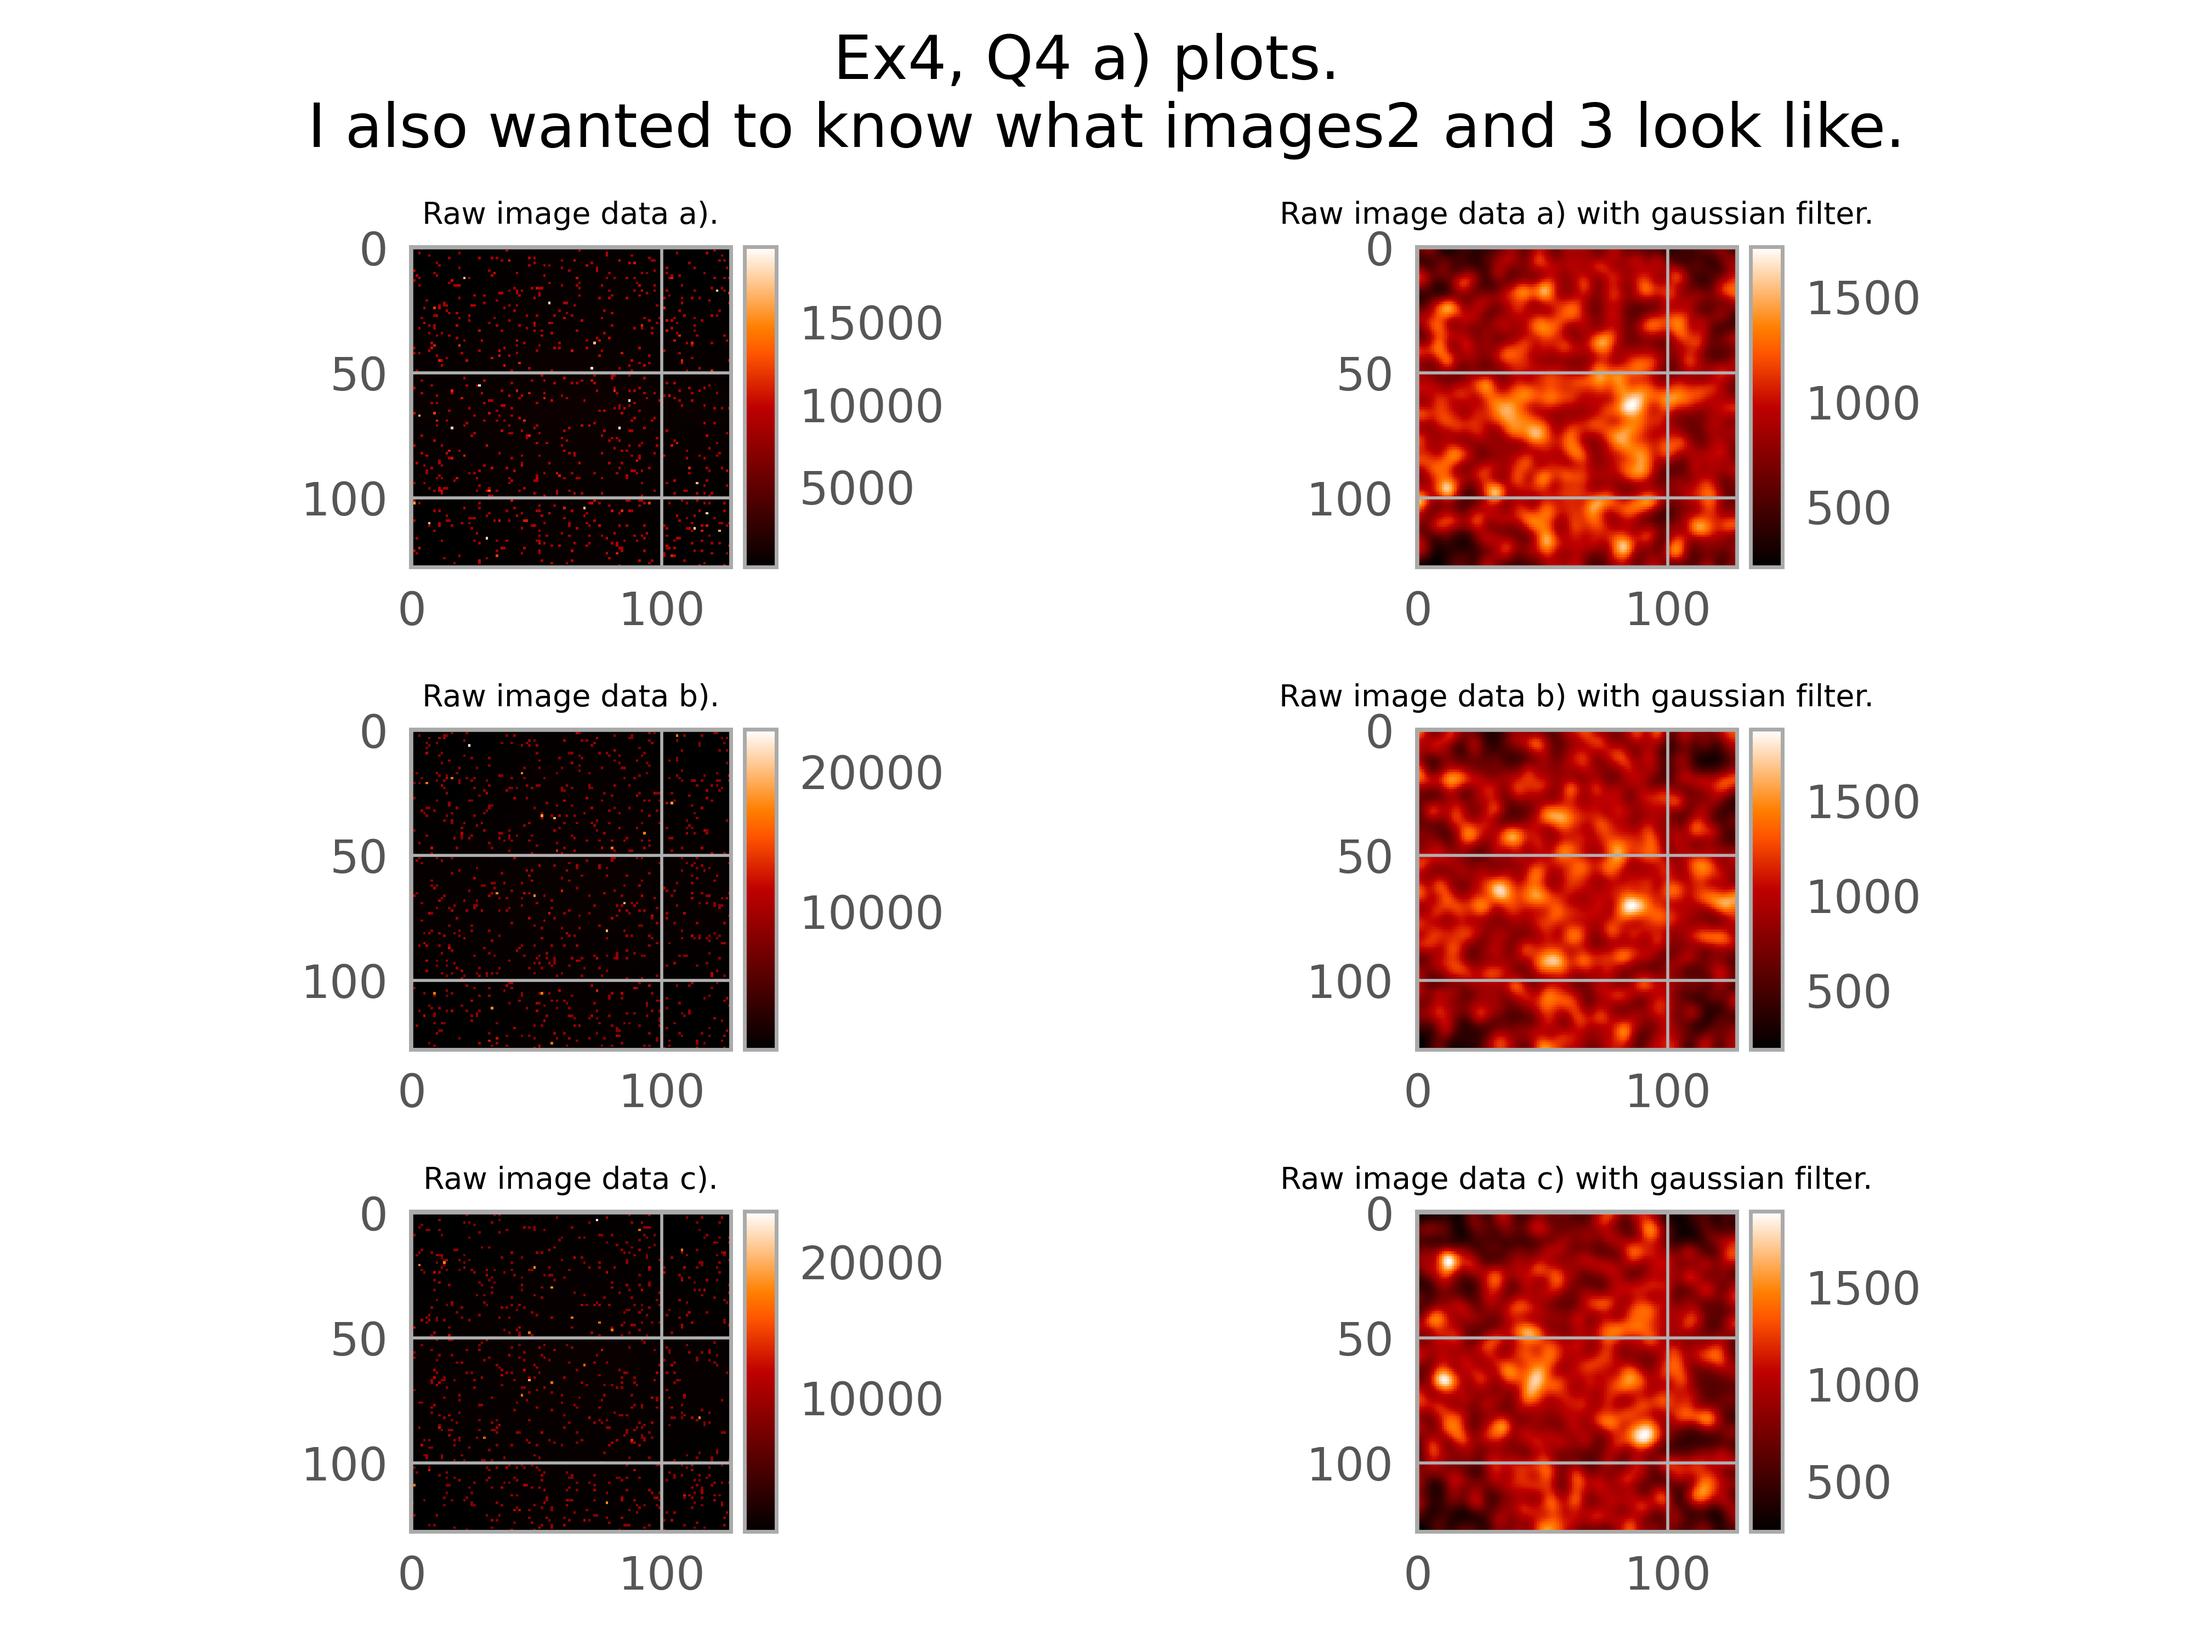
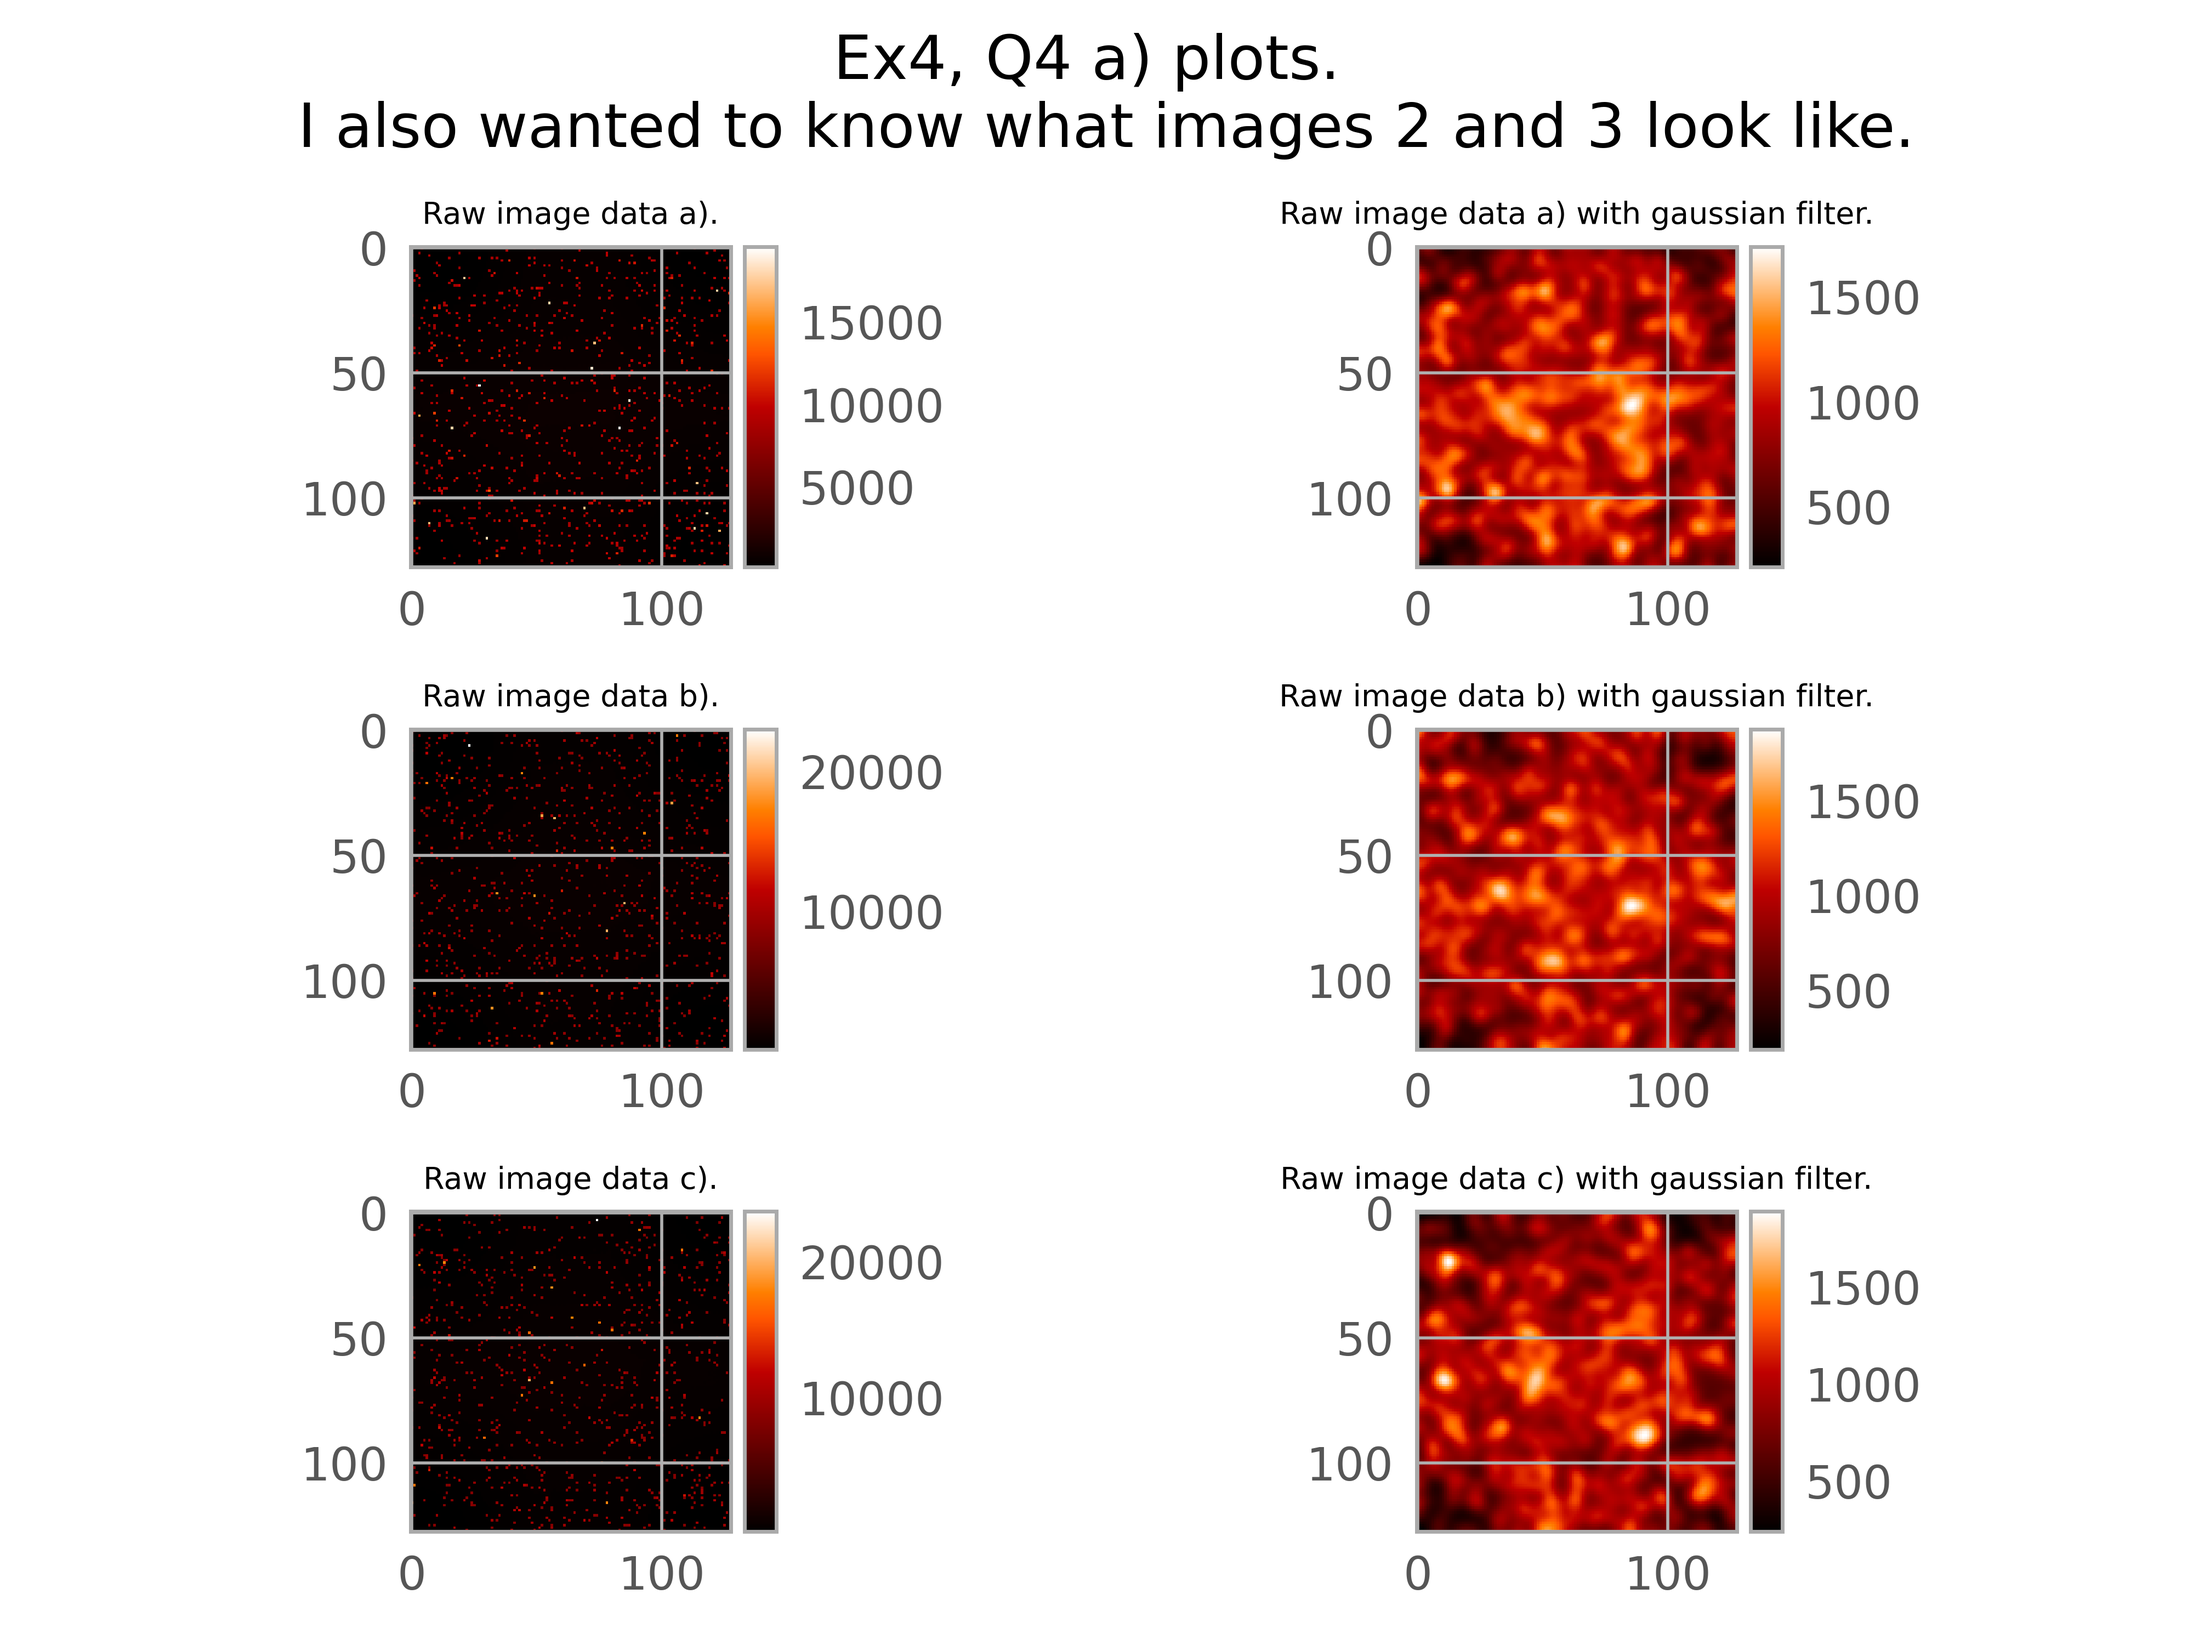
update ex4

Changed region(s): [[0.125, 0.062, 0.875, 0.093]]

diff --git a/ex4/welzel_ex4_q4.py b/ex4/welzel_ex4_q4.py
@@ -3,6 +3,7 @@ import pprint
 import numpy as np
 import matplotlib.pyplot as plt
 from astropy.visualization import astropy_mpl_style
+
 plt.style.use(astropy_mpl_style)
 from matplotlib import pyplot as plt
 from mpl_toolkits.axes_grid1 import make_axes_locatable
@@ -12,40 +13,40 @@ from scipy.ndimage import gaussian_filter
 img_raw = np.array([sh.read_img(f"./ex4/imgs_ex4/image3{n}_2021.fits") for n in ["a", "b", "c"]])
 
 # part a)
-gau_sigma=3
-fig, ((ax1, ax2),(ax3, ax4),(ax5, ax6)) = plt.subplots(3, 2, constrained_layout=False)
-fig.suptitle('Ex4, Q4 a) plots. \n I also wanted to know what images2 and 3 look like.', fontsize=16)
-im1 = ax1.imshow(np.sum(img_raw[0],axis=0))
+gau_sigma = 3
+fig, ((ax1, ax2), (ax3, ax4), (ax5, ax6)) = plt.subplots(3, 2, constrained_layout=False)
+fig.suptitle('Ex4, Q4 a) plots. \n I also wanted to know what images 2 and 3 look like.', fontsize=16)
+im1 = ax1.imshow(np.sum(img_raw[0], axis=0))
 divider1 = make_axes_locatable(ax1)
 cax1 = divider1.append_axes("right", size="10%", pad=0.05)
 cbar1 = plt.colorbar(im1, cax1)
 ax1.set_title('Raw image data a).', fontsize=8)
 
-im2 = ax2.imshow(gaussian_filter(np.sum(img_raw[0],axis=0), sigma=gau_sigma))
+im2 = ax2.imshow(gaussian_filter(np.sum(img_raw[0], axis=0), sigma=gau_sigma))
 divider2 = make_axes_locatable(ax2)
 cax2 = divider2.append_axes("right", size="10%", pad=0.05)
 cbar2 = plt.colorbar(im2, cax2)
 ax2.set_title('Raw image data a) with gaussian filter.', fontsize=8)
 
-im3 = ax3.imshow(np.sum(img_raw[1],axis=0))
+im3 = ax3.imshow(np.sum(img_raw[1], axis=0))
 divider3 = make_axes_locatable(ax3)
 cax3 = divider3.append_axes("right", size="10%", pad=0.05)
 cbar3 = plt.colorbar(im3, cax3)
 ax3.set_title('Raw image data b).', fontsize=8)
 
-im4 = ax4.imshow(gaussian_filter(np.sum(img_raw[1],axis=0), sigma=gau_sigma))
+im4 = ax4.imshow(gaussian_filter(np.sum(img_raw[1], axis=0), sigma=gau_sigma))
 divider4 = make_axes_locatable(ax4)
 cax4 = divider4.append_axes("right", size="10%", pad=0.05)
 cbar4 = plt.colorbar(im4, cax4)
 ax4.set_title('Raw image data b) with gaussian filter.', fontsize=8)
 
-im5 = ax5.imshow(np.sum(img_raw[2],axis=0))
+im5 = ax5.imshow(np.sum(img_raw[2], axis=0))
 divider5 = make_axes_locatable(ax5)
 cax5 = divider5.append_axes("right", size="10%", pad=0.05)
 cbar5 = plt.colorbar(im5, cax5)
 ax5.set_title('Raw image data c).', fontsize=8)
 
-im6 = ax6.imshow(gaussian_filter(np.sum(img_raw[2],axis=0), sigma=gau_sigma))
+im6 = ax6.imshow(gaussian_filter(np.sum(img_raw[2], axis=0), sigma=gau_sigma))
 divider6 = make_axes_locatable(ax6)
 cax6 = divider6.append_axes("right", size="10%", pad=0.05)
 cbar6 = plt.colorbar(im6, cax6)
@@ -57,33 +58,126 @@ plt.savefig("./ex4/welzel_ex4_q4a_plot.png", dpi=500)
 plt.show()
 
 print("a) the two dominant structures we see are: Hot and rouge pixels")
-print("a) as you can see gaussian filtering is very op.\n There is a hot spot on the right moving is positive y direction consistantly over the images.")
+print(
+    "a) as you can see gaussian filtering is very op.\n There is a hot spot on the right moving is positive y direction consistantly over the images.")
 
 # part B
+# lets act like we didnt already see the brown dwarf in the plots above
+# Ok first im finding the hot pixels and interpolating over them
+# find hot pixel spots, just choose 1000 as cutoff, most other pixels are below 200
+img_raw_hp_cleaned = np.where(img_raw > 1000, np.nan, img_raw)
+img_raw_hp_cleaned = np.array([sh.interp_nan(img) for img in
+                               img_raw_hp_cleaned.reshape(
+                                   (-1, img_raw.shape[-2], img_raw.shape[-1]))])  # flex, but takes a bit of course
+# better way to do this might be to just take the mean of the elements surrounding the nans
+# TODO: implement multiprocessing for this so the TAs have to run it on linux
 
-# either constant as in constant all time
-sky_only=np.where((img_raw[0]==img_raw[1]), img_raw[0], np.zeros_like(img_raw[0])) #and (img_raw[0]=img_raw[2])
-# offset images by 30 px in y
-print(sky_only)
-print(sky_only.shape)
-plt.imshow(sky_only)
+img_raw_hp_cleaned = img_raw_hp_cleaned.reshape(img_raw.shape)
+
+# lets get the thermal stray light that you can see very clearly in the image now
+# ill be using img_raw_hp_cleaned as the raw data now to get better performance
+img_th_straylight = np.mean(img_raw_hp_cleaned.reshape((-1, img_raw.shape[-2], img_raw.shape[-1])), axis=0)
+
+fig, (ax1) = plt.subplots(1, 1, constrained_layout=False)
+fig.suptitle('Ex4, Q4 b) plot.', fontsize=16)
+im1 = ax1.imshow(img_th_straylight)
+divider1 = make_axes_locatable(ax1)
+cax1 = divider1.append_axes("right", size="10%", pad=0.05)
+cbar1 = plt.colorbar(im1, cax1)
+ax1.set_title('Sky only image.', fontsize=8)
+
+plt.tight_layout()
+plt.subplots_adjust(top=0.85)
+plt.savefig("./ex4/welzel_ex4_q4b_plot.png", dpi=500)
 plt.show()
 
-# or constant as in in constant flux
-sky_only=np.ones_like(img_raw[0,0])*np.mean(img_raw)
+# wow that looks real and smooth
 
 # part C
+img_flat_field_raw = np.array(sh.read_img(f"./ex4/imgs_ex4/flat3_2021.fits"))
+img_norm_flat_field = img_flat_field_raw / np.mean(img_flat_field_raw)
 
+img_flat_field_re_scaled = np.array([img_norm_flat_field * np.mean(img) for img in img_raw_hp_cleaned
+                                    .reshape((-1, img_raw.shape[-2], img_raw.shape[-1]))]) \
+    .reshape(img_raw.shape)
 
-flat_field_raw= np.array(sh.read_img(f"./ex4/imgs_ex4/flat_2021.fits"))
-norm_mean_flat_field=flat_field_raw/np.mean(flat_field_raw)
+fig, (ax1) = plt.subplots(1, 1, constrained_layout=False)
+fig.suptitle('Ex4, Q4 c) plot.', fontsize=16)
+im1 = ax1.imshow(img_norm_flat_field)
+divider1 = make_axes_locatable(ax1)
+cax1 = divider1.append_axes("right", size="10%", pad=0.05)
+cbar1 = plt.colorbar(im1, cax1)
+ax1.set_title('Flat field normalized by mean.', fontsize=8)
 
-flat_field_re_norm=np.array([norm_mean_flat_field*mean_img for mean_img in np.sum(img_raw,axis=1)])
-# axes might be off, also apply to all images in cubes no sums ofc but its essentially the same since the mean scales
+plt.tight_layout()
+plt.subplots_adjust(top=0.85)
+plt.savefig("./ex4/welzel_ex4_q4c_plot.png", dpi=500)
+plt.show()
 
 # part D
-# substract noise
+# ok, lets do it
+# we already have the imgs with the hotpixels removed, let remove the thermal straylight from them
+img = img_raw_hp_cleaned - img_th_straylight
 
-imgs=imgs_raw-sky_only-flat_field_re_norm
-img=(imgs[1,:,30:-30]+imgs[0,:,:]+imgs[2,:,:])/3
+# this is here so we have an image before the subtraction of the flat field
+img_comp = np.sum(img, axis=1)[0, :, 0:-60] + np.sum(img, axis=1)[1, :, 30:-30] + np.sum(img, axis=1)[2, :, 60:]
 
+# now lets remove the flat field from them
+img=img-img_flat_field_re_scaled
+
+# summing up the images with the same telescope orientation
+img = np.sum(img, axis=1)
+
+# super positioning of the images
+img_region = img[0, :, 0:-60] + img[1, :, 30:-30] + img[2, :, 60:]
+
+fig, ((ax1, ax2), (ax3, ax4)) = plt.subplots(2, 2, constrained_layout=False)
+fig.suptitle('Ex4, Q4 d) plots.', fontsize=16)
+im1 = ax1.imshow(img_region)
+divider1 = make_axes_locatable(ax1)
+cax1 = divider1.append_axes("right", size="10%", pad=0.05)
+cbar1 = plt.colorbar(im1, cax1)
+ax1.set_title('Final image.', fontsize=8)
+
+im2 = ax2.imshow(gaussian_filter(img_region, sigma=gau_sigma))
+divider2 = make_axes_locatable(ax2)
+cax2 = divider2.append_axes("right", size="10%", pad=0.05)
+cbar2 = plt.colorbar(im2, cax2)
+ax2.set_title('Final image with gaussian filter.', fontsize=8)
+
+im3 = ax3.imshow(img_comp)
+divider3 = make_axes_locatable(ax3)
+cax3 = divider3.append_axes("right", size="10%", pad=0.05)
+cbar3 = plt.colorbar(im3, cax3)
+ax3.set_title('Final image without flat field removed.', fontsize=8)
+
+im4 = ax4.imshow(gaussian_filter(img_comp, sigma=gau_sigma))
+divider4 = make_axes_locatable(ax4)
+cax4 = divider4.append_axes("right", size="10%", pad=0.05)
+cbar4 = plt.colorbar(im4, cax4)
+ax4.set_title('Final image without flat field removed with gaussian filter.', fontsize=8)
+
+plt.tight_layout()
+plt.subplots_adjust(top=0.85)
+plt.savefig("./ex4/welzel_ex4_q4d_plot.png", dpi=500)
+plt.show()
+
+
+fig, (ax1, ax3) = plt.subplots(2, 1, constrained_layout=False)
+fig.suptitle('Plot so you see whats going on.', fontsize=16)
+im1 = ax1.imshow(img[0])
+divider1 = make_axes_locatable(ax1)
+cax1 = divider1.append_axes("right", size="10%", pad=0.05)
+cbar1 = plt.colorbar(im1, cax1)
+ax1.set_title('Final image (with flat field subtracted), looks just like the inverse of the flat field!', fontsize=8)
+
+im3 = ax3.imshow(img_norm_flat_field)
+divider3 = make_axes_locatable(ax3)
+cax3 = divider3.append_axes("right", size="10%", pad=0.05)
+cbar3 = plt.colorbar(im3, cax3)
+ax3.set_title('Flat field normalized by mean (compare with above).', fontsize=8)
+
+plt.tight_layout()
+plt.subplots_adjust(top=0.85)
+plt.savefig("./ex4/welzel_ex4_q4d_addendum_plot.png", dpi=500)
+plt.show()

diff --git a/welzel_shared.py b/welzel_shared.py
@@ -1,7 +1,4 @@
 import numpy as np
-from astropy.io import fits
-from astropy.utils.data import get_pkg_data_filename
-import os
 
 
 def read_img(loc):
@@ -10,6 +7,8 @@ def read_img(loc):
     :param loc: (str) filepaths to images
     :return: (np.array) array for .fits data. Shape=(len(loc),420,1020)
     '''
+    from astropy.io import fits
+    from astropy.utils.data import get_pkg_data_filename
     image_files = get_pkg_data_filename(loc)
     print(f"---====== Reading {loc} image. ======---")
     fits.info(image_files)
@@ -40,6 +39,23 @@ def histogram_equalization(img, n_bins=256):
 
     return img_hist_equ.reshape(img.shape)
 
+def interp_nan(img, method='linear'):
+    '''
+    cleans up nan data in 2d arrays. Intended use is images.
+    :param img: (2d array)
+    :param method: ('nearest', linear’, ‘cubic’)
+    :return: cleaned 2d array
+    '''
+    from scipy.interpolate import griddata
+    grid_x, grid_y = np.mgrid[0:img.shape[0], 0:img.shape[1]]
 
-# set dir path for anything using welzel_shared
-os.chdir("/home/lwelzel/Documents/Git/dtla/")
+    img_masked=np.ma.array(img, mask=np.isnan(img)).compressed().flatten()
+
+    grid_masked = np.stack((np.ma.array(grid_x, mask=np.isnan(img)).compressed().flatten(),
+                             np.ma.array(grid_y, mask=np.isnan(img)).compressed().flatten())).T
+
+    img=griddata(points= grid_masked, values=img_masked, xi=(grid_x, grid_y), method=method)
+    return img
+
+# # set dir path for anything using welzel_shared
+# os.chdir("/home/lwelzel/Documents/Git/dtla/")
